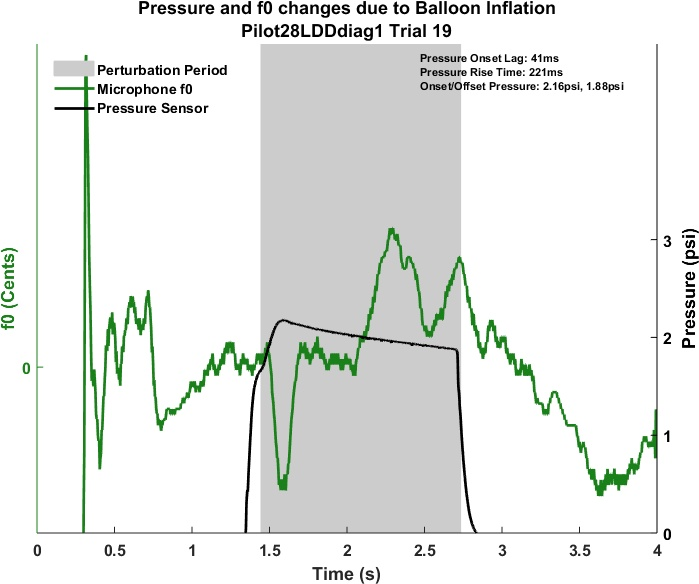
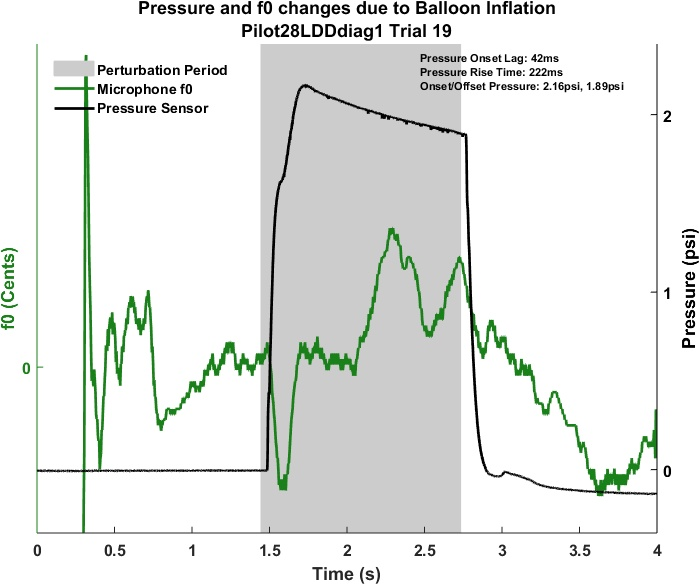
updaing the plot
They look really good. Lined up just perfect. Might need to make the lines thicker in the future, and change the color, but for now, this is good

diff --git a/Analysis/dfRunSubjAnalysis.m b/Analysis/dfRunSubjAnalysis.m
@@ -92,9 +92,9 @@ res.contTrig      = auRes.contTrig;
 res.numSaveTrials = auRes.numSaveTrials;
 res.numContTrials = auRes.numContTrials;
 res.numPertTrials = auRes.numPertTrials;
-res.allAuNiDelays = auRes.allAuNiDelays;
 
 res.numPertTrialsNi = niRes.numPertTrials;
+res.numContTrialsNi = niRes.numContTrials;
 res.timeS           = niRes.timeS;
 res.sensorP         = niRes.sensorP;        % Individual Processed perturbed trials. 
 res.lagTimeP        = niRes.lagTimeP;
@@ -146,7 +146,25 @@ res.respVarSD    = auRes.respVarSD;
 res.InflaStimVar = auRes.InflaStimVar;
 
 %NIAu Delay
-res.auAn.allAuNiDelays = auRes.allAuNiDelays;
+res.allAuNiDelays = auRes.allAuNiDelays;
+
+%Check the Ni trials against the Au trials
+presInd = [];
+if res.numPertTrialsPP < res.numPertTrialsNi
+    setPertTrials = res.svIdx(res.pertIdx);
+    for ii = 1:length(niRes.pertIdx)
+        ind = [];
+        ind = find(setPertTrials == niRes.pertIdx(ii));
+        if ~isempty(ind)
+            presInd = cat(1, presInd, ii);
+        end
+    end
+    
+    res.sensorPsv  = res.sensorP(:, presInd);
+    res.lagTimePsv = res.lagTimeP(presInd, :);
+    res.riseTimePsv= res.riseTimeP(presInd);
+    res.OnOfValPsv = res.OnOfValP(presInd, :);
+end
 end
 
 function [pF, iRF] = checkDRFExpType(expType)
